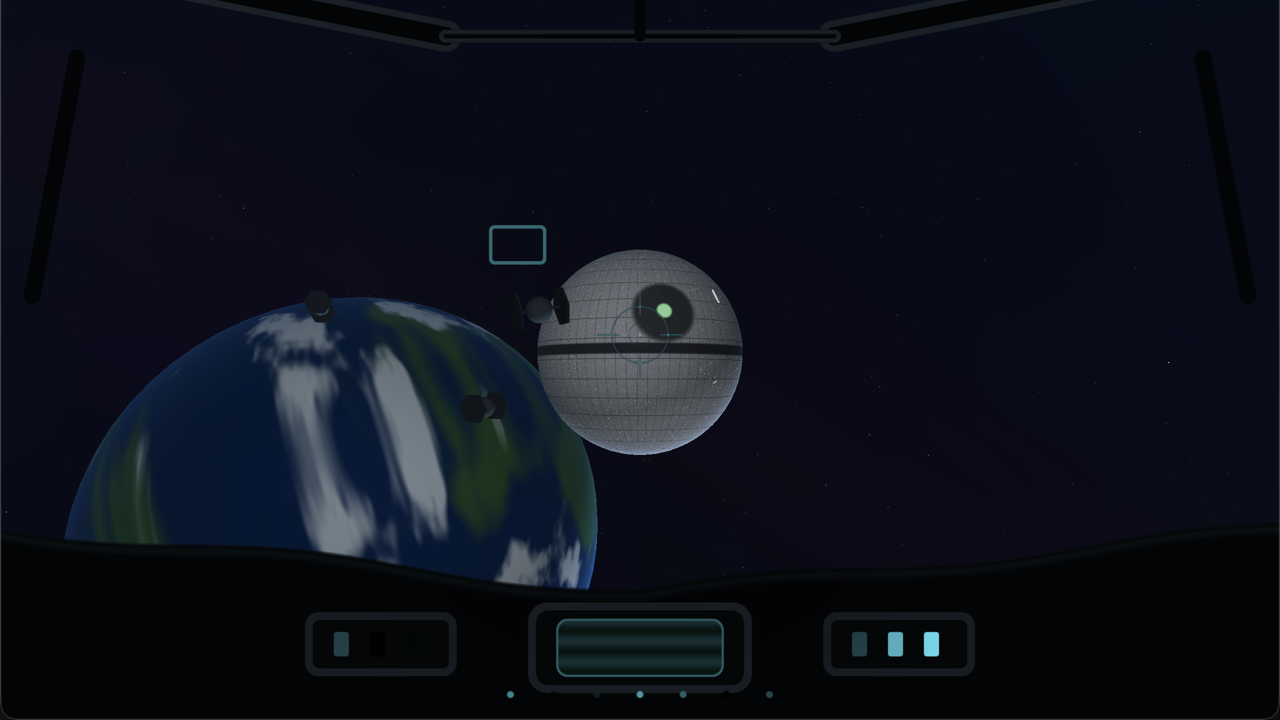
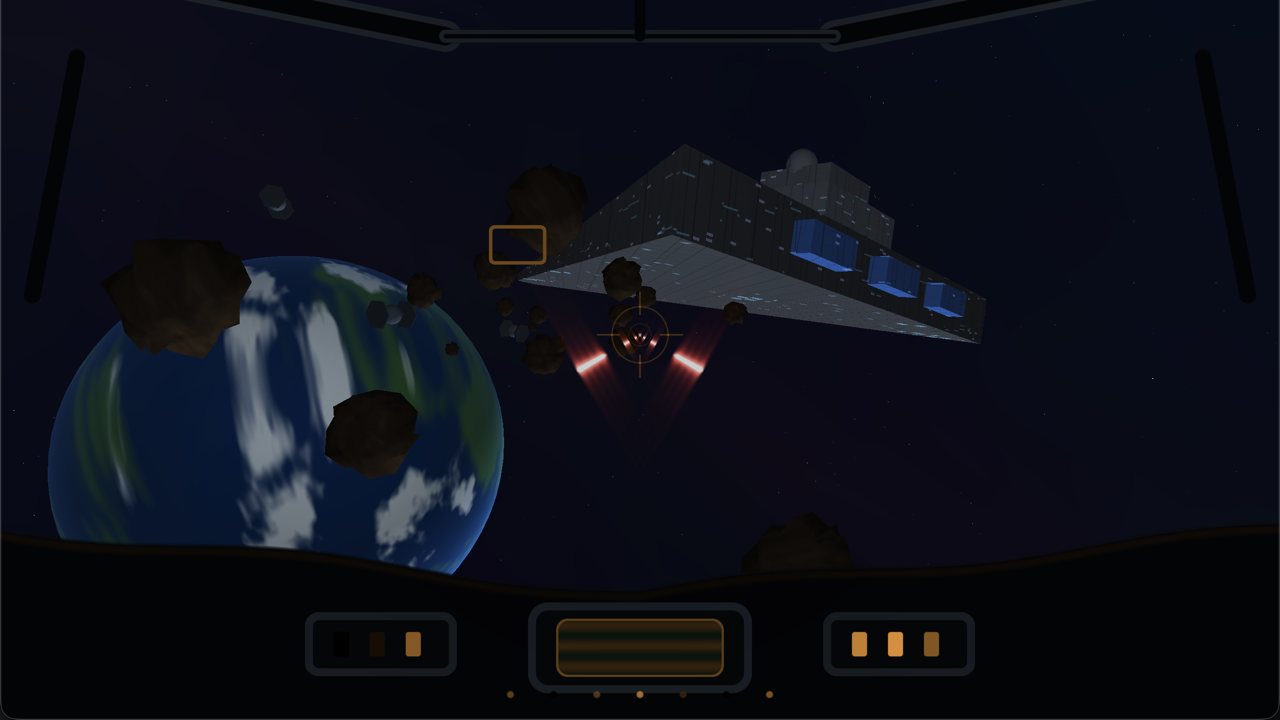
converge X-Wing bolts on the cockpit reticle

diff --git a/Engine/Lasers/Sources/XWingCannon.cpp b/Engine/Lasers/Sources/XWingCannon.cpp
@@ -12,40 +12,56 @@ namespace {
 void appendVolley(std::vector<LaserBeam>& beams, const XWingCannonSettings& settings,
                   const XWingCannonFrame& frame, float time, float age) {
     const float travel = age * settings.boltSpeed;
-    if (travel > settings.travelRange) {
+    const float endTravel = std::min(travel + settings.boltLength, settings.convergenceDistance);
+    if (travel >= settings.convergenceDistance || endTravel <= travel) {
         return;
     }
 
-    const float u0 = std::clamp(travel / settings.travelRange, 0.0f, 1.0f);
-    const float u1 = std::clamp((travel + settings.boltLength) / settings.travelRange, 0.0f, 1.0f);
-    for (int side = -1; side <= 1; side += 2) {
-        const float x0 = static_cast<float>(side) * (settings.muzzleSide - 0.95f * u0);
-        const float x1 = static_cast<float>(side) * (settings.muzzleSide - 0.95f * u1);
-        const float y0 = settings.muzzleUp + 0.90f * u0;
-        const float y1 = settings.muzzleUp + 0.90f * u1;
-        const float z0 = settings.muzzleForward + travel;
-        const float z1 = z0 + settings.boltLength;
+    // The stream converges on the shared cockpit reticle. aimNdc is in
+    // normalized device coordinates, so this is the same screen point the HUD
+    // draws whether we are in the lab or the game.
+    const float targetX =
+        settings.aimNdcX * settings.convergenceDistance / settings.projectionScale;
+    const float targetY =
+        settings.aimNdcY * settings.convergenceDistance / settings.projectionScale;
+    const float targetWorldX = frame.origin[0] + frame.right[0] * targetX + frame.up[0] * targetY +
+                               frame.forward[0] * settings.convergenceDistance;
+    const float targetWorldY = frame.origin[1] + frame.right[1] * targetX + frame.up[1] * targetY +
+                               frame.forward[1] * settings.convergenceDistance;
+    const float targetWorldZ = frame.origin[2] + frame.right[2] * targetX + frame.up[2] * targetY +
+                               frame.forward[2] * settings.convergenceDistance;
 
-        const float startX =
-            frame.origin[0] + frame.right[0] * x0 + frame.up[0] * y0 + frame.forward[0] * z0;
-        const float startY =
-            frame.origin[1] + frame.right[1] * x0 + frame.up[1] * y0 + frame.forward[1] * z0;
-        const float startZ =
-            frame.origin[2] + frame.right[2] * x0 + frame.up[2] * y0 + frame.forward[2] * z0;
-        const float endX =
-            frame.origin[0] + frame.right[0] * x1 + frame.up[0] * y1 + frame.forward[0] * z1;
-        const float endY =
-            frame.origin[1] + frame.right[1] * x1 + frame.up[1] * y1 + frame.forward[1] * z1;
-        const float endZ =
-            frame.origin[2] + frame.right[2] * x1 + frame.up[2] * y1 + frame.forward[2] * z1;
+    for (int side = -1; side <= 1; side += 2) {
+        const float sideOffset = settings.muzzleSide * static_cast<float>(side);
+        const float startWorldX = frame.origin[0] + frame.right[0] * sideOffset +
+                                  frame.up[0] * settings.muzzleUp +
+                                  frame.forward[0] * settings.muzzleForward;
+        const float startWorldY = frame.origin[1] + frame.right[1] * sideOffset +
+                                  frame.up[1] * settings.muzzleUp +
+                                  frame.forward[1] * settings.muzzleForward;
+        const float startWorldZ = frame.origin[2] + frame.right[2] * sideOffset +
+                                  frame.up[2] * settings.muzzleUp +
+                                  frame.forward[2] * settings.muzzleForward;
+
+        const float axisX = targetWorldX - startWorldX;
+        const float axisY = targetWorldY - startWorldY;
+        const float axisZ = targetWorldZ - startWorldZ;
+        const float axisLength = std::sqrt(axisX * axisX + axisY * axisY + axisZ * axisZ);
+        if (axisLength < 0.0001f) {
+            continue;
+        }
+
+        const float directionX = axisX / axisLength;
+        const float directionY = axisY / axisLength;
+        const float directionZ = axisZ / axisLength;
 
         LaserBeam beam{};
-        beam.start[0] = startX;
-        beam.start[1] = startY;
-        beam.start[2] = startZ;
-        beam.end[0] = endX;
-        beam.end[1] = endY;
-        beam.end[2] = endZ;
+        beam.start[0] = startWorldX + directionX * travel;
+        beam.start[1] = startWorldY + directionY * travel;
+        beam.start[2] = startWorldZ + directionZ * travel;
+        beam.end[0] = startWorldX + directionX * endTravel;
+        beam.end[1] = startWorldY + directionY * endTravel;
+        beam.end[2] = startWorldZ + directionZ * endTravel;
         beam.width = kXWingLaserVisual.width;
         beam.color[0] = kXWingLaserVisual.color[0];
         beam.color[1] = kXWingLaserVisual.color[1];
@@ -66,8 +82,9 @@ std::vector<LaserBeam> buildXWingCannonBeams(const XWingCannonSettings& settings
 
     if (automatic) {
         const float phase = std::fmod(std::max(time, 0.0f), settings.firePeriod);
-        const int volleys =
-            static_cast<int>(settings.travelRange / (settings.boltSpeed * settings.firePeriod)) + 1;
+        const int volleys = static_cast<int>(settings.convergenceDistance /
+                                             (settings.boltSpeed * settings.firePeriod)) +
+                            1;
         for (int index = 0; index < volleys; ++index) {
             appendVolley(beams, settings, frame, time,
                          phase + static_cast<float>(index) * settings.firePeriod);

diff --git a/Games/03-SpaceBattle/Sources/Render/SceneBuilder.cpp b/Games/03-SpaceBattle/Sources/Render/SceneBuilder.cpp
@@ -1,5 +1,6 @@
 #include "Render/SceneBuilder.hpp"
 
+#include "Cockpit/CockpitState.hpp"
 #include "Core/BattleState.hpp"
 #include "Lasers/LaserTypes.hpp"
 #include "Lasers/XWingCannon.hpp"
@@ -100,7 +101,10 @@ void addPlayerLasers(RenderFrame& frame, const CameraBasis& basis) {
     cannonFrame.forward[1] = basis.forward.y;
     cannonFrame.forward[2] = basis.forward.z;
 
-    const auto beams = cppgames::lasers::buildXWingCannonBeams({}, cannonFrame, frame.time);
+    cppgames::lasers::XWingCannonSettings settings{};
+    settings.aimNdcX = -frame.steer * cppgames::cockpit::kReticleSteerShift / 1.777f;
+    settings.aimNdcY = cppgames::cockpit::kReticleCenterY;
+    const auto beams = cppgames::lasers::buildXWingCannonBeams(settings, cannonFrame, frame.time);
     frame.lasers.insert(frame.lasers.end(), beams.begin(), beams.end());
 }
 

diff --git a/Games/03-SpaceBattle/Labs/X-Wing Lasers/Sources/Demo/LaserDemo.cpp b/Games/03-SpaceBattle/Labs/X-Wing Lasers/Sources/Demo/LaserDemo.cpp
@@ -1,4 +1,5 @@
 #include "Demo/LaserDemo.hpp"
+#include "Cockpit/CockpitState.hpp"
 #include "Lasers/LaserTypes.hpp"
 #include "Lasers/XWingCannon.hpp"
 
@@ -72,7 +73,11 @@ std::vector<cppgames::lasers::LaserBeam> LaserDemo::beams() const {
             manualAge = age;
         }
     }
-    return cppgames::lasers::buildXWingCannonBeams({}, frame, cockpit_.time, autoFire_, manualAge);
+    cppgames::lasers::XWingCannonSettings settings{};
+    settings.aimNdcX = -cockpit_.steer * cppgames::cockpit::kReticleSteerShift / 1.777f;
+    settings.aimNdcY = cppgames::cockpit::kReticleCenterY;
+    return cppgames::lasers::buildXWingCannonBeams(settings, frame, cockpit_.time, autoFire_,
+                                                   manualAge);
 }
 
 std::string LaserDemo::windowTitle() const {

diff --git a/Engine/Cockpit/Include/Cockpit/CockpitState.hpp b/Engine/Cockpit/Include/Cockpit/CockpitState.hpp
@@ -2,6 +2,11 @@
 
 namespace cppgames::cockpit {
 
+// Shared HUD reticle placement, in aspect-corrected normalized device
+// coordinates. Keep in sync with reticleCentre in cockpit.slang.
+inline constexpr float kReticleCenterY = 0.07f;
+inline constexpr float kReticleSteerShift = 0.035f;
+
 // Renderer-neutral inputs for the X-Wing cockpit overlay. Games fill this from
 // gameplay state; the shared CockpitOverlay converts it to GPU uniforms.
 struct CockpitState {

diff --git a/Engine/Lasers/Include/Lasers/XWingCannon.hpp b/Engine/Lasers/Include/Lasers/XWingCannon.hpp
@@ -22,7 +22,10 @@ struct XWingCannonSettings {
     float muzzleSide{1.25f};
     float muzzleUp{-0.55f};
     float muzzleForward{4.0f};
-    float travelRange{125.0f};
+    float convergenceDistance{70.0f};
+    float aimNdcX{0.0f};
+    float aimNdcY{0.07f};
+    float projectionScale{1.7879f};
 };
 
 // Produces the same continuous four-cannon volley stream in the lab and the

diff --git a/Engine/Lasers/README.md b/Engine/Lasers/README.md
@@ -10,8 +10,9 @@ Reusable X-Wing laser rendering shared by SpaceBattle and the
 - `kXWingLaserVisual` — the canonical X-Wing width/color/intensity preset used
   by both the lab and SpaceBattle, so lab tuning lands in the game.
 - [`XWingCannon`](Include/Lasers/XWingCannon.hpp) — the shared continuous volley
-  stream: muzzle offsets, bolt speed/length, travel range, and the 0.62 s fire
-  period. The lab and game call the same builder.
+  stream: muzzle offsets, bolt speed/length, the 0.62 s fire period, and a
+  convergence point on the cockpit reticle. Bolts disappear into the reticle
+  rather than passing near it.
 - [`LaserFrame`](Include/Lasers/LaserTypes.hpp) — view-projection, projection
   scale, aspect ratio, camera position, and time.
 - [`LaserRenderer`](Include/Lasers/LaserRenderer.hpp) — compiles `laser.metal`,

diff --git a/Games/03-SpaceBattle/README.md b/Games/03-SpaceBattle/README.md
@@ -137,7 +137,8 @@ of its render pass. The same module powers the
 be iterated in isolation and then land in the game without copy/paste.
 Laser visuals live in [Engine/Lasers](../../Engine/Lasers/README.md) and are
 iterated in the [laser lab](<Labs/X-Wing Lasers/README.md>). The lab and game
-share the `XWingCannon` muzzle offsets, cadence, bolt motion, and visual preset.
+share the `XWingCannon` muzzle offsets, cadence, bolt motion, reticle
+convergence, and visual preset.
 
 The Slang compiler emits Metal Shading Language at build time. The app compiles
 the generated `.metal` source at runtime, so development works with only the

diff --git a/Games/03-SpaceBattle/Labs/X-Wing Lasers/README.md b/Games/03-SpaceBattle/Labs/X-Wing Lasers/README.md
@@ -49,8 +49,9 @@ overlay is visible.
 `LaserDemo::beams()` asks the shared `XWingCannon` builder for the volley
 stream. The lab and SpaceBattle use the same muzzle offsets, bolt speed/length,
 0.62 s fire period, and `kXWingLaserVisual` preset, so the starting point and
-cadence match. The renderer then projects the beams to screen space and draws
-additive glowing segments.
+cadence match. The bolts converge on and disappear into the shared HUD reticle.
+The renderer then projects the beams to screen space and draws additive glowing
+segments.
 
 ## Pluggable into SpaceBattle
 
